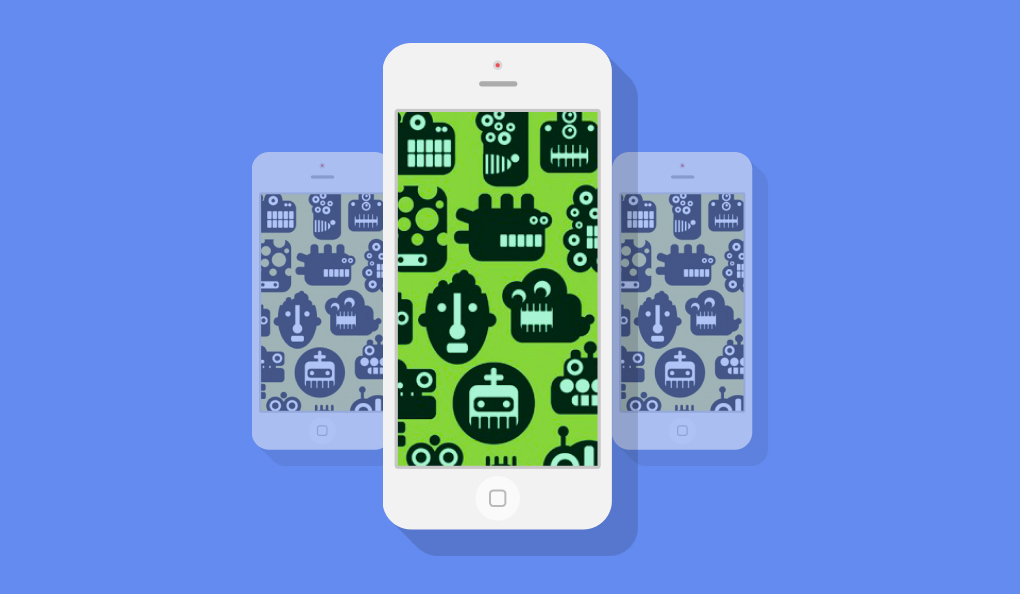
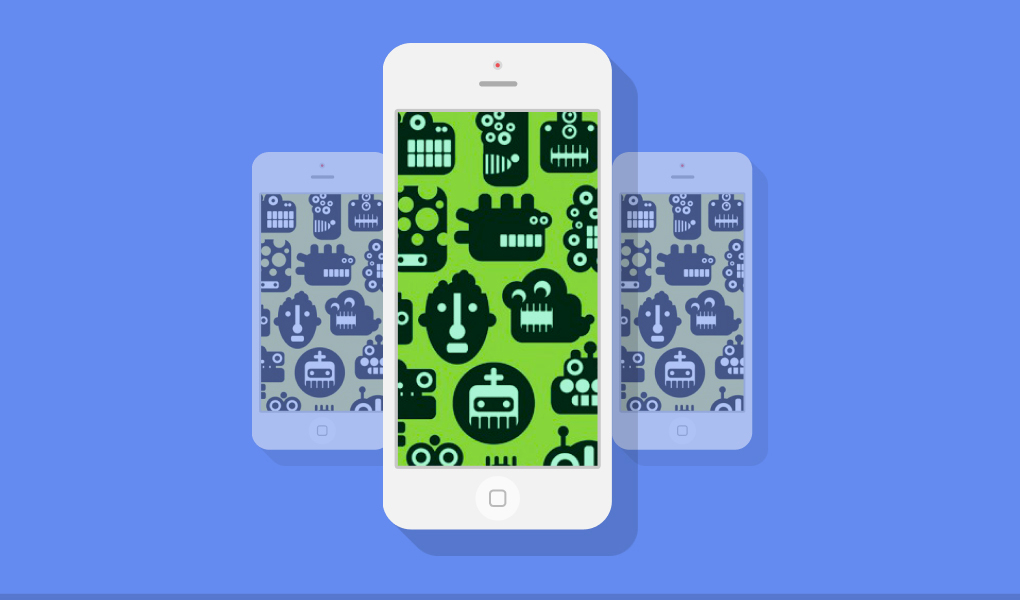
feat: add bottom border to img

Changed region(s): [[0.0, 0.99, 1.0, 1.0]]

diff --git a/style.css b/style.css
@@ -131,6 +131,7 @@ a.active{
     background-position: 0px -70px;
     background-repeat: no-repeat;
     z-index: 1;
+    cursor: pointer;
 }
 
 .horizontal-phone {
@@ -144,6 +145,7 @@ a.active{
     background-position: -105.2px -57px;
     background-repeat: no-repeat;
     z-index: 1;
+    cursor: pointer;
 }
 
 .display-off{
@@ -325,7 +327,7 @@ a.active{
     flex-direction: row;
     flex-wrap: wrap;
     justify-content: space-between;
-    height: 601px;
+    height: 607px;
     margin-top: 19px;
     overflow: hidden;
 }
@@ -335,20 +337,20 @@ a.active{
 }
 
 .portfolio__projects-image {
-    margin: 0 0 15px 0;
-    position: relative;
+    margin: 0 0 8px 0;
+    border: 5px solid transparent;
+}
+
+.selected {
+    border: 5px solid #F06C64;
 }
 
 .portfolio-image:nth-child(n+13) {
     display: none;
 }
 
-.rectangle-border{
-    background-image: url(assets/img/rectangle.png);
-    position: absolute;
-    top: -5px;
-    left: -5px;
-    z-index: 1;
+.portfolio-border{
+    outline: 5px solid #F06C64;
 }
 
 .about-us {
